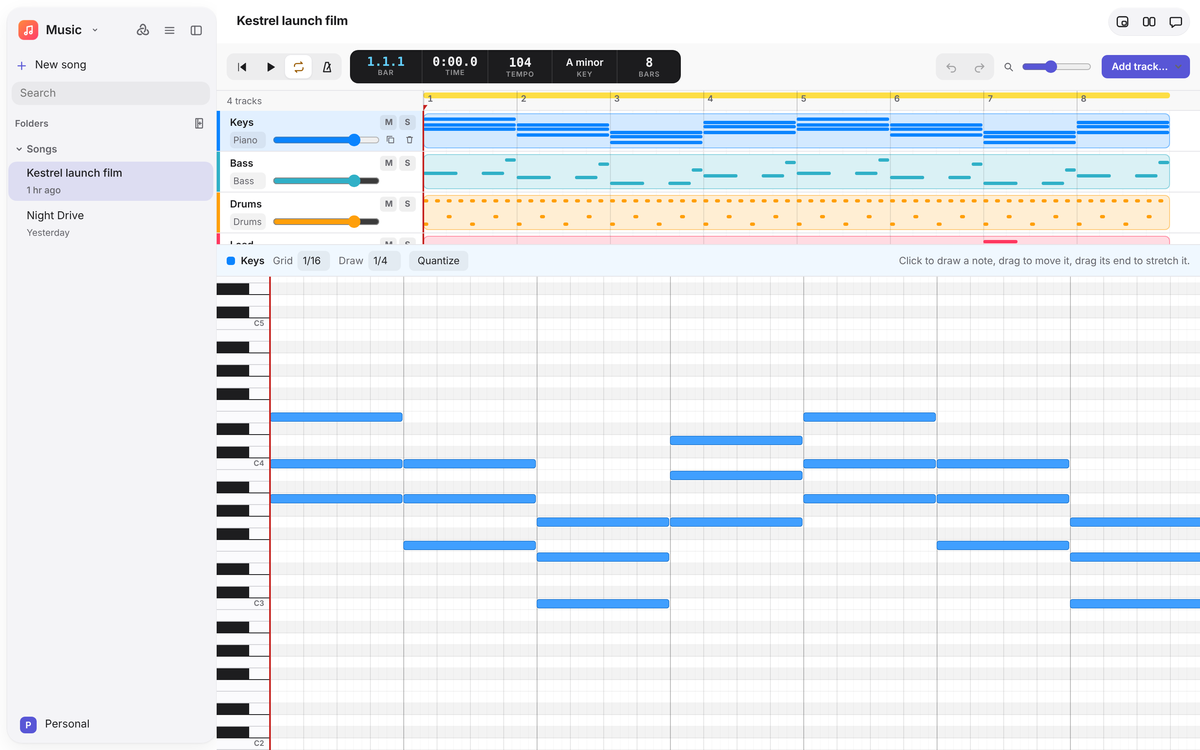
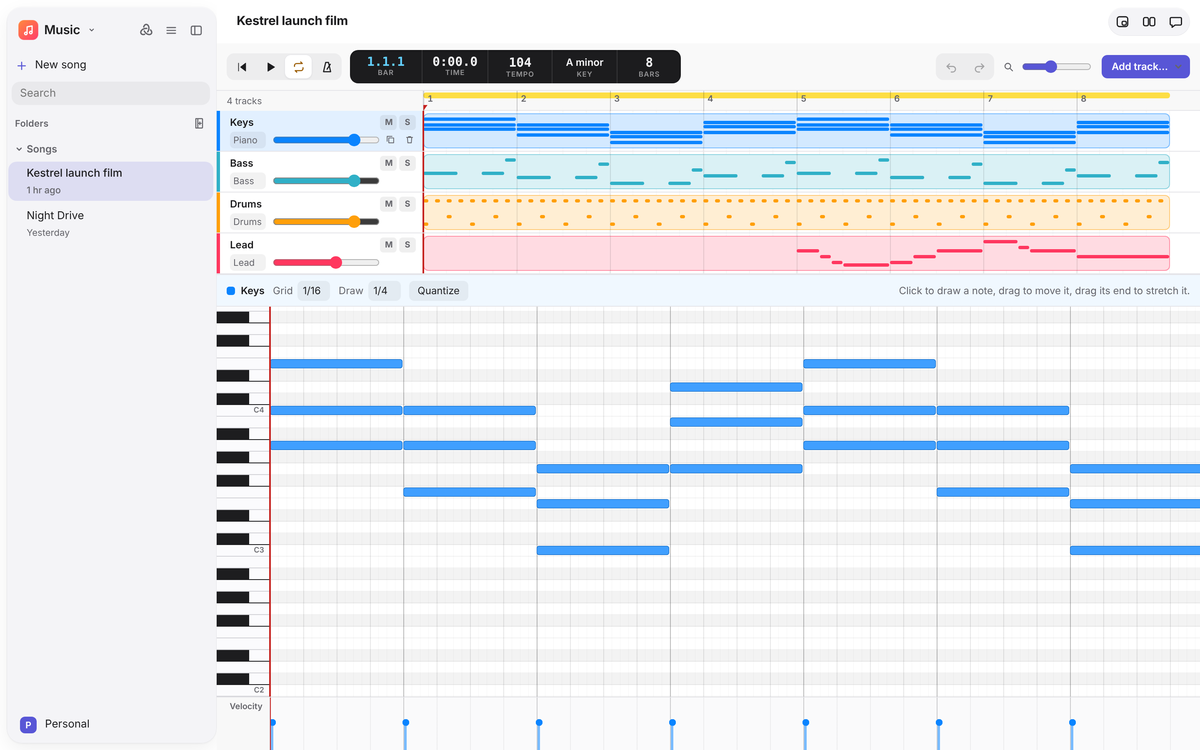
Music: track list fits its tracks, taller drum rows, velocity lane (#50)
* Music: the track list fits its tracks, taller drum rows, and a velocity lane

- The track list is as tall as its tracks (it was squeezed by the roll, hiding the last track), with a divider to drag or
  move with Up/Down, and Home to fit it again.
- Drum rows grow to fill the editor (26 to 40px) with each drum named in full.
- A velocity lane under the roll: a bar per note, dragged up or down; picked notes move together (nudgeVelocity).
- Unit tests for nudgeVelocity and fitTracks, an e2e for the lane, divider and drum rows; README picture and docs retaken.

Claude-Session: https://claude.ai/code/session_01VRGwo92y9AyxCvHYC61ZVd

* Music: draw a picked note's velocity bar on top, so a chord's notes can each be dragged

The new e2e dragged A3's bar in a chord, but C4's bar sat over it at the same beat and took the drag. Picked bars now
come first, and the test picks A3 before dragging, as a person would.

Claude-Session: https://claude.ai/code/session_01VRGwo92y9AyxCvHYC61ZVd

---------

diff --git a/apps/desktop/src/Studio.tsx b/apps/desktop/src/Studio.tsx
@@ -3,7 +3,7 @@ import { NotesSidebar, newItemIn, type SidebarWords } from './NotesSidebar';
 import { EmptyState } from './EmptyState';
 import { BEATS_PER_BAR, DRUMS, INSTRUMENTS, INSTRUMENT_NAMES, KEYS, changedTracks, freshTrackId, keyPitches, noteName, parseSong, writeSong, type Instrument, type Song, type SongNote, type Track } from './song-format';
 import { play, previewNote, type Player } from './studio-audio';
-import { GRIDS, addNote, duplicateNotes, isBlack, moveNotes, notesIn, pasteNotes, position, quantizeNotes, removeNotes, setVelocity, snap, stretchNotes, type Picked } from './studio-view';
+import { GRIDS, addNote, duplicateNotes, fitTracks, nudgeVelocity, isBlack, moveNotes, notesIn, pasteNotes, position, quantizeNotes, removeNotes, setVelocity, snap, stretchNotes, type Picked } from './studio-view';
 import { useFileReview } from './useFileReview';
 import type { NotesState } from './useNotes';
 import { ReviewActions, WhyThis } from './ReviewBar';
@@ -26,6 +26,13 @@ const ROW_H = 14;
 const MELODY_TOP = 84;
 const MELODY_BOTTOM = 36;
 const ZOOMS = [0.5, 0.75, 1, 1.5, 2, 3];
+/** Drums get taller rows and room for their names, since there are only a few of them. */
+const DRUM_ROW_H = 26;
+const DRUM_KEYS_W = 96;
+/** The velocity lane under the roll. */
+const VEL_H = 64;
+/** The least room left for the note editor when the track list is made taller. */
+const EDITOR_MIN = 200;
 
 const Icon = ({ d, fill }: { d: string; fill?: boolean }) => <svg viewBox="0 0 20 20" aria-hidden="true" data-fill={fill || undefined}><path d={d} /></svg>;
 const ICONS = {
@@ -83,6 +90,25 @@ export function StudioEditor({ songs, review }: { songs: NotesState; review?: { 
   // with the pointer captured by the roll it does not reach the note in every engine.
   const lastPress = useRef<{ i: number; t: number; x: number; y: number } | null>(null);
   const [box, setBox] = useState<{ b0: number; b1: number; r0: number; r1: number } | null>(null);
+  // How tall the track list is, once its divider has been dragged; until then it fits its tracks.
+  const [arrangeH, setArrangeH] = useState<number | null>(null);
+  const [scrollX, setScrollX] = useState(0);
+  // A drag on the velocity lane: which notes, and how much louder or softer so far.
+  const [velDrag, setVelDrag] = useState<{ these: Picked; y: number; by: number } | null>(null);
+  const page = useRef<HTMLElement>(null);
+  const [pageH, setPageH] = useState(840);
+  useEffect(() => {
+    const el = page.current;
+    if (!el) return;
+    // The room under the transport, which can wrap onto two lines in a narrow window.
+    const measure = () => setPageH(el.clientHeight - (el.querySelector<HTMLElement>('.studio-transport')?.offsetHeight ?? 52));
+    const ro = new ResizeObserver(measure);
+    ro.observe(el);
+    const bar = el.querySelector('.studio-transport');
+    if (bar) ro.observe(bar);
+    measure();
+    return () => ro.disconnect();
+  }, [song !== null]); // eslint-disable-line react-hooks/exhaustive-deps
   const [, setTick] = useState(0);
   const player = useRef<Player | null>(null);
   const roll = useRef<HTMLDivElement>(null);
@@ -204,6 +230,10 @@ export function StudioEditor({ songs, review }: { songs: NotesState; review?: { 
   const total = song.bars * BEATS_PER_BAR;
   const inKey = keyPitches(song.key);
   const drums = track?.instrument === 'drums';
+  // Drum rows grow to fill the editor (there are only six), up to a comfortable pad size.
+  const listFor = Math.max(96, Math.min(arrangeH ?? fitTracks(song.tracks.length), Math.max(96, pageH - EDITOR_MIN)));
+  const rowH = drums ? Math.max(DRUM_ROW_H, Math.min(40, Math.floor((pageH - listFor - 1 - 38 - VEL_H - 2) / DRUMS.length))) : ROW_H;
+  const keysW = drums ? DRUM_KEYS_W : KEYS_W;
   const rows = drums ? DRUMS.map((d) => ({ pitch: d.pitch, label: d.name, shade: false, black: false, c: true })) : Array.from({ length: MELODY_TOP - MELODY_BOTTOM + 1 }, (_, i) => MELODY_TOP - i).map((p) => ({ pitch: p, label: noteName(p), shade: !inKey.has(p % 12), black: isBlack(p), c: p % 12 === 0 }));
   const rowOf = (pitch: number) => rows.findIndex((r) => r.pitch === pitch);
   const rbw = ROLL_BEAT_W * zoom;
@@ -250,7 +280,7 @@ export function StudioEditor({ songs, review }: { songs: NotesState; review?: { 
   // ---------- The piano roll's pointer ----------
   const at = (e: { clientX: number; clientY: number }) => {
     const r = inner.current!.getBoundingClientRect();
-    return { beat: Math.max(0, Math.min(total - 1e-6, (e.clientX - r.left - KEYS_W) / rbw)), row: Math.max(0, Math.min(rows.length - 1, Math.floor((e.clientY - r.top) / ROW_H))) };
+    return { beat: Math.max(0, Math.min(total - 1e-6, (e.clientX - r.left - keysW) / rbw)), row: Math.max(0, Math.min(rows.length - 1, Math.floor((e.clientY - r.top) / rowH))) };
   };
   const onRollDown = (e: ReactPointerEvent<HTMLDivElement>) => {
     if (e.button !== 0 || !track) return;
@@ -287,7 +317,7 @@ export function StudioEditor({ songs, review }: { songs: NotesState; review?: { 
     if (!g) return;
     if (g.kind === 'move') {
       const db = Math.round((e.clientX - g.x) / rbw / grid) * grid;
-      const dr = Math.round((e.clientY - g.y) / ROW_H);
+      const dr = Math.round((e.clientY - g.y) / rowH);
       if (db !== g.db || dr !== g.dr || (!g.moved && Math.abs(e.clientX - g.x) + Math.abs(e.clientY - g.y) > 3)) setGesture({ ...g, db, dr, moved: g.moved || Math.abs(e.clientX - g.x) + Math.abs(e.clientY - g.y) > 3 });
     } else if (g.kind === 'stretch') {
       const dl = Math.round((e.clientX - g.x) / rbw / grid) * grid;
@@ -354,10 +384,43 @@ export function StudioEditor({ songs, review }: { songs: NotesState; review?: { 
   // While a note is dragged, the picked notes are drawn where they would land.
   const dragShift = gesture?.kind === 'move' && gesture.moved ? { db: gesture.db, dr: gesture.dr } : null;
   const dragStretch = gesture?.kind === 'stretch' ? gesture.dl : 0;
+  // The track list fits its tracks unless its divider was dragged, and always leaves the editor some room.
+  const room = pageH - EDITOR_MIN;
+  const listH = listFor;
+  const onDividerDown = (e: ReactPointerEvent<HTMLDivElement>) => {
+    if (e.button !== 0) return;
+    e.preventDefault();
+    e.currentTarget.setPointerCapture(e.pointerId);
+    const y = e.clientY, h = listH;
+    const el = e.currentTarget;
+    const move = (m: PointerEvent) => setArrangeH(Math.max(96, Math.min(h + m.clientY - y, Math.max(96, room))));
+    const up = () => { el.removeEventListener('pointermove', move); el.removeEventListener('pointerup', up); el.removeEventListener('pointercancel', up); };
+    el.addEventListener('pointermove', move);
+    el.addEventListener('pointerup', up);
+    el.addEventListener('pointercancel', up);
+  };
+  /** A press on a note's velocity bar: drag up for louder, down for softer; picked notes move together. */
+  const onVelDown = (e: ReactPointerEvent<HTMLElement>, i: number) => {
+    if (e.button !== 0) return;
+    e.preventDefault();
+    e.stopPropagation();
+    const these = picked.has(i) ? picked : new Set([i]);
+    if (!picked.has(i)) setPicked(e.shiftKey ? new Set([...picked, i]) : these);
+    e.currentTarget.setPointerCapture(e.pointerId);
+    setVelDrag({ these: e.shiftKey && !picked.has(i) ? new Set([...picked, i]) : these, y: e.clientY, by: 0 });
+  };
+  const onVelMove = (e: ReactPointerEvent<HTMLElement>) => { if (velDrag) setVelDrag({ ...velDrag, by: Math.round(((velDrag.y - e.clientY) / (VEL_H - 8)) * 100) / 100 }); };
+  const onVelUp = () => {
+    if (!velDrag) return;
+    if (velDrag.by !== 0) setNotes((n) => nudgeVelocity(n, velDrag.these, velDrag.by), 'velocity');
+    setVelDrag(null);
+  };
+  const shownVelocity = (j: number, v: number) => (velDrag && velDrag.these.has(j) ? Math.max(0, Math.min(1, v + velDrag.by)) : v);
+
   const velocity = pickedNotes.length ? pickedNotes.reduce((a, n) => a + n.velocity, 0) / pickedNotes.length : null;
 
   return (
-    <section className="studio-page" aria-label="Music">
+    <section className="studio-page" aria-label="Music" ref={page}>
       <div className="studio-transport" role="toolbar" aria-label="Transport">
         <div className="studio-buttons">
           <button type="button" className="studio-tbtn" aria-label="Go to start" title="Go to start (Return)" onClick={() => seek(0)}><Icon d={ICONS.start} fill /></button>
@@ -390,7 +453,7 @@ export function StudioEditor({ songs, review }: { songs: NotesState; review?: { 
           </select>
         </label>
       </div>
-      <div className="studio-arrange" data-empty={song.tracks.length === 0 || undefined} style={{ ['--head' as string]: `${HEAD_W}px` }}>
+      <div className="studio-arrange" data-empty={song.tracks.length === 0 || undefined} style={{ ['--head' as string]: `${HEAD_W}px`, height: listH }}>
         <div className="studio-ruler-row">
           <div className="studio-ruler-head">{song.tracks.length === 1 ? '1 track' : `${song.tracks.length} tracks`}</div>
           <div
@@ -446,6 +509,19 @@ export function StudioEditor({ songs, review }: { songs: NotesState; review?: { 
           <ReviewActions onKeep={keep} onDiscard={discard} />
         </div>
       )}
+      <div
+        className="studio-divider"
+        role="separator"
+        aria-orientation="horizontal"
+        aria-label="Resize tracks and notes"
+        aria-valuemin={96}
+        aria-valuemax={Math.max(96, room)}
+        aria-valuenow={Math.round(listH)}
+        tabIndex={0}
+        title="Drag to show more tracks or more notes"
+        onPointerDown={onDividerDown}
+        onKeyDown={(e) => { if (e.key === 'ArrowUp' || e.key === 'ArrowDown') { e.preventDefault(); setArrangeH(Math.max(96, Math.min(listH + (e.key === 'ArrowUp' ? -24 : 24), Math.max(96, room)))); } else if (e.key === 'Home') { e.preventDefault(); setArrangeH(null); } }}
+      />
       {track && (
         <div className="studio-editor" data-instrument={track.instrument}>
           <div className="studio-roll-bar" role="toolbar" aria-label="Notes">
@@ -462,18 +538,18 @@ export function StudioEditor({ songs, review }: { songs: NotesState; review?: { 
               </>
             ) : <span className="studio-hint">Click to draw a note, drag to move it, drag its end to stretch it.</span>}
           </div>
-          <div className="studio-roll" ref={roll} role="grid" aria-label={`Notes of ${track.name}`} aria-multiselectable="true" tabIndex={0} onKeyDown={onRollKey}>
+          <div className="studio-roll" ref={roll} role="grid" aria-label={`Notes of ${track.name}`} aria-multiselectable="true" tabIndex={0} onKeyDown={onRollKey} onScroll={(e) => setScrollX(e.currentTarget.scrollLeft)}>
             <div
               className="studio-roll-inner"
               ref={inner}
-              style={{ width: KEYS_W + total * rbw, height: rows.length * ROW_H }}
+              style={{ width: keysW + total * rbw, height: rows.length * rowH, ['--row' as string]: `${rowH}px`, ['--keys' as string]: `${keysW}px` }}
               onPointerDown={onRollDown}
               onPointerMove={onRollMove}
               onPointerUp={onRollUp}
               onPointerCancel={() => { setGesture(null); setBox(null); }}
             >
               {rows.map((r, i) => (
-                <div key={r.pitch} className="studio-row" role="row" data-shade={r.shade || undefined} data-black={r.black || undefined} style={{ top: i * ROW_H, height: ROW_H }}>
+                <div key={r.pitch} className="studio-row" role="row" data-shade={r.shade || undefined} data-black={r.black || undefined} style={{ top: i * rowH, height: rowH }}>
                   <span className="studio-key" role="rowheader" data-black={r.black || undefined} data-c={r.c || undefined} data-drum={drums || undefined} onPointerDown={(e) => { e.stopPropagation(); previewNote(track.instrument, r.pitch); }}>{r.label}</span>
                   <div
                     className="studio-row-cells"
@@ -496,7 +572,7 @@ export function StudioEditor({ songs, review }: { songs: NotesState; review?: { 
                           role="button"
                           aria-pressed={isPicked}
                           aria-label={`${r.label} at beat ${n.start + 1}, ${n.length} beats`}
-                          style={{ left, width, transform: isPicked && dragShift ? `translateY(${dragShift.dr * ROW_H}px)` : undefined, ['--vel' as string]: n.velocity }}
+                          style={{ left, width, transform: isPicked && dragShift ? `translateY(${dragShift.dr * rowH}px)` : undefined, ['--vel' as string]: n.velocity }}
                         >{width > 10 && <span className="studio-note-end" aria-hidden="true" />}</span>
                       );
                     })}
@@ -506,9 +582,35 @@ export function StudioEditor({ songs, review }: { songs: NotesState; review?: { 
               {box && (() => {
                 const [b0, b1] = box.b0 < box.b1 ? [box.b0, box.b1] : [box.b1, box.b0];
                 const [r0, r1] = box.r0 < box.r1 ? [box.r0, box.r1] : [box.r1, box.r0];
-                return <span className="studio-box" style={{ left: KEYS_W + b0 * rbw, width: (b1 - b0) * rbw, top: r0 * ROW_H, height: (r1 - r0 + 1) * ROW_H }} aria-hidden="true" />;
+                return <span className="studio-box" style={{ left: keysW + b0 * rbw, width: (b1 - b0) * rbw, top: r0 * rowH, height: (r1 - r0 + 1) * rowH }} aria-hidden="true" />;
               })()}
-              <span className="studio-playhead" style={{ left: KEYS_W + beat * rbw }} aria-hidden="true" />
+              <span className="studio-playhead" style={{ left: keysW + beat * rbw }} aria-hidden="true" />
+            </div>
+          </div>
+          <div className="studio-vel" role="group" aria-label={`Velocity of ${track.name}`} style={{ height: VEL_H, ['--keys' as string]: `${keysW}px` }}>
+            <span className="studio-vel-label" aria-hidden="true">Velocity</span>
+            <div className="studio-vel-inner" style={{ width: total * rbw, transform: `translateX(${-scrollX}px)`, backgroundSize: `${rbw}px 100%, ${rbw * BEATS_PER_BAR}px 100%` }} onPointerMove={onVelMove} onPointerUp={onVelUp} onPointerCancel={() => setVelDrag(null)}>
+              {notes.map((n, j) => {
+                const v = shownVelocity(j, n.velocity);
+                const label = drums ? (DRUMS.find((d) => d.pitch === n.pitch)?.name ?? noteName(n.pitch)) : noteName(n.pitch);
+                return (
+                  <span
+                    key={j}
+                    className="studio-vel-bar"
+                    role="slider"
+                    tabIndex={-1}
+                    aria-label={`Velocity of ${label} at beat ${n.start + 1}`}
+                    aria-valuemin={0}
+                    aria-valuemax={127}
+                    aria-valuenow={Math.round(v * 127)}
+                    data-picked={picked.has(j) || undefined}
+                    style={{ left: n.start * rbw, height: `${Math.max(2, v * (VEL_H - 8))}px` }}
+                    onPointerDown={(e) => onVelDown(e, j)}
+                    onKeyDown={(e) => { if (e.key !== 'ArrowUp' && e.key !== 'ArrowDown') return; e.preventDefault(); e.stopPropagation(); setNotes((ns) => nudgeVelocity(ns, picked.has(j) ? picked : new Set([j]), (e.key === 'ArrowUp' ? 1 : -1) * (e.shiftKey ? 0.1 : 1 / 127)), 'velocity'); }}
+                  />
+                );
+              })}
+              <span className="studio-playhead" style={{ left: beat * rbw }} aria-hidden="true" />
             </div>
           </div>
         </div>

diff --git a/apps/desktop/src/studio.css b/apps/desktop/src/studio.css
@@ -45,7 +45,7 @@
 .studio-page .studio-add select option { color: var(--ink); background: var(--bg); }
 
 /* ---------- Arrangement ---------- */
-.studio-page .studio-arrange { flex: 0 1 auto; max-height: 50%; min-height: 96px; overflow: auto; padding: 0; position: relative; }
+.studio-page .studio-arrange { flex: none; min-height: 96px; overflow: auto; padding: 0; position: relative; }
 .studio-ruler-row { position: sticky; top: 0; z-index: 4; display: grid; grid-template-columns: var(--head) max-content; height: 24px; background: color-mix(in srgb, var(--ink) 3%, var(--bg)); border-bottom: 0.5px solid var(--line); }
 .studio-ruler-head { position: sticky; left: 0; z-index: 1; display: flex; align-items: center; padding: 0 12px; background: inherit; border-right: 0.5px solid var(--line); font-size: 11px; color: var(--muted); }
 .studio-ruler { position: relative; height: 24px; cursor: pointer; outline: none; }
@@ -87,7 +87,13 @@
 .studio-page .studio-review { margin: 6px var(--sp-3); }
 
 /* ---------- Piano roll ---------- */
-.studio-editor { flex: 1 1 auto; min-height: 180px; display: flex; flex-direction: column; border-top: 0.5px solid var(--line); }
+.studio-editor { flex: 1 1 0; min-height: 0; display: flex; flex-direction: column; }
+/* The divider between the tracks and the notes: a hairline with a wider grab area, as in Logic's split. */
+.studio-divider { flex: none; position: relative; height: 1px; background: var(--line); cursor: row-resize; z-index: 5; touch-action: none; outline: none; }
+.studio-divider::before { content: ""; position: absolute; left: 0; right: 0; top: -4px; bottom: -4px; }
+.studio-divider::after { content: ""; position: absolute; left: 50%; top: -2px; width: 36px; height: 5px; margin-left: -18px; border-radius: 3px; background: color-mix(in srgb, var(--ink) 18%, transparent); opacity: 0; transition: opacity var(--dur-fast) var(--ease); }
+.studio-divider:hover::after, .studio-divider:focus-visible::after { opacity: 1; }
+.studio-divider:focus-visible { background: var(--accent); }
 .studio-roll-bar { flex: none; display: flex; align-items: center; gap: 10px; height: 38px; padding: 0 var(--sp-3); border-bottom: 0.5px solid var(--line); background: color-mix(in srgb, var(--tc) 6%, var(--bg)); font-size: var(--fs-sm); }
 .studio-roll-title { display: inline-flex; align-items: center; gap: 7px; font-weight: 600; white-space: nowrap; }
 .studio-field { display: inline-flex; align-items: center; gap: 6px; color: var(--muted); white-space: nowrap; }
@@ -99,7 +105,7 @@
 .studio-picked { font-weight: 600; white-space: nowrap; }
 .studio-hint { color: var(--muted); white-space: nowrap; overflow: hidden; text-overflow: ellipsis; }
 
-.studio-page .studio-roll { flex: 1 1 auto; min-height: 0; overflow: auto; border-top: 0; outline: none; background: var(--bg); }
+.studio-page .studio-roll { flex: 0 1 auto; min-height: 0; overflow: auto; border-top: 0; outline: none; background: var(--bg); }
 .studio-page .studio-roll-inner { position: relative; touch-action: none; user-select: none; }
 .studio-page .studio-row { position: absolute; left: 0; right: 0; display: flex; }
 .studio-page .studio-row[data-shade] .studio-row-cells { background-color: color-mix(in srgb, var(--ink) 3.5%, transparent); }
@@ -112,11 +118,11 @@
     linear-gradient(90deg, color-mix(in srgb, var(--ink) 22%, transparent) 1px, transparent 1px);
 }
 /* The keyboard: white keys with black ones short and dark, C named on each octave. */
-.studio-key { position: sticky; left: 0; z-index: 2; flex: none; width: 64px; height: 100%; padding-right: 6px; box-sizing: border-box; text-align: right; font: 600 9px/14px var(--font); color: transparent; background: #fbfbfd; border-bottom: 0.5px solid #d2d2d7; border-right: 0.5px solid var(--line); cursor: pointer; }
+.studio-key { position: sticky; left: 0; z-index: 2; flex: none; width: var(--keys, 64px); height: 100%; padding-right: 6px; box-sizing: border-box; text-align: right; font: 600 9px/var(--row, 14px) var(--font); color: transparent; background: #fbfbfd; border-bottom: 0.5px solid #d2d2d7; border-right: 0.5px solid var(--line); cursor: pointer; }
 .studio-key[data-c] { color: #6e6e73; }
 .studio-key[data-black] { background: linear-gradient(90deg, #1d1d1f 0 62%, #fbfbfd 62%); border-bottom-color: #1d1d1f; }
 .studio-key:active { background: color-mix(in srgb, var(--tc) 30%, #fbfbfd); }
-.studio-key[data-drum] { padding: 0 8px; text-align: left; font: 500 10.5px/14px var(--font); color: var(--ink); background: color-mix(in srgb, var(--ink) 3%, var(--bg)); border-bottom-color: var(--line); }
+.studio-key[data-drum] { padding: 0 10px; text-align: left; white-space: nowrap; overflow: hidden; text-overflow: ellipsis; font: 500 12px/var(--row, 26px) var(--font); color: var(--ink); background: color-mix(in srgb, var(--ink) 3%, var(--bg)); border-bottom-color: var(--line); }
 .studio-page .studio-note { position: absolute; top: 1px; bottom: 1px; border-radius: 3px; background: color-mix(in srgb, var(--tc) calc(45% + var(--vel, 0.8) * 55%), var(--bg)); box-shadow: inset 0 0 0 0.5px color-mix(in srgb, var(--tc) 70%, #000); cursor: grab; }
 /* The end of a note, to drag to stretch it. */
 .studio-page .studio-note-end { position: absolute; top: 0; right: 0; bottom: 0; width: 7px; cursor: ew-resize; }
@@ -133,6 +139,17 @@
 :root[data-theme="dark"] .studio-key[data-c] { color: #aeaeb2; }
 :root[data-theme="dark"] .studio-key[data-black] { background: linear-gradient(90deg, #0b0b0c 0 62%, #3a3a3c 62%); }
 :root[data-theme="dark"] .studio-key[data-drum] { background: color-mix(in srgb, var(--ink) 4%, var(--bg)); color: var(--ink); }
+
+/* The velocity lane: one bar per note, taller for louder, under the roll and scrolled with it. */
+.studio-page .studio-vel { flex: none; position: relative; overflow: hidden; border-top: 0.5px solid var(--line); background: color-mix(in srgb, var(--ink) 2%, var(--bg)); }
+.studio-vel-label { position: absolute; left: 0; top: 0; bottom: 0; z-index: 2; width: var(--keys, 64px); box-sizing: border-box; padding: 6px 8px 0 0; text-align: right; font: 600 10px/1 var(--font); color: var(--muted); background: color-mix(in srgb, var(--ink) 3%, var(--bg)); border-right: 0.5px solid var(--line); }
+.studio-vel-inner { position: absolute; top: 0; bottom: 0; left: var(--keys, 64px); background-image: linear-gradient(90deg, color-mix(in srgb, var(--ink) 6%, transparent) 1px, transparent 1px), linear-gradient(90deg, color-mix(in srgb, var(--ink) 16%, transparent) 1px, transparent 1px); }
+.studio-page .studio-vel-bar { position: absolute; bottom: 0; width: 3px; margin-left: 1px; border-radius: 2px 2px 0 0; background: color-mix(in srgb, var(--tc) 55%, var(--bg)); cursor: ns-resize; touch-action: none; outline: none; }
+/* A round head on each bar, like Logic's velocity stems; a wider invisible grab area around the thin line. */
+.studio-page .studio-vel-bar::before { content: ""; position: absolute; left: -5px; right: -5px; top: -6px; bottom: 0; }
+.studio-page .studio-vel-bar::after { content: ""; position: absolute; top: -3px; left: -2.5px; width: 8px; height: 8px; border-radius: 50%; background: var(--tc); }
+.studio-page .studio-vel-bar[data-picked] { z-index: 1; background: var(--tc); }
+.studio-page .studio-vel-bar[data-picked]::after { box-shadow: 0 0 0 2px var(--bg), 0 0 0 3.5px var(--tc); }
 
 /* ---------- Empty ---------- */
 .studio-empty { display: grid; justify-items: center; gap: 6px; max-width: 340px; text-align: center; color: var(--muted); font-size: var(--fs-sm); }

diff --git a/apps/desktop/e2e/studio.spec.ts b/apps/desktop/e2e/studio.spec.ts
@@ -129,3 +129,38 @@ test('a part from Mobius is a new track of notes, dashed until kept or discarded
   await expect.poll(() => saved().tracks.map((t) => t.id)).toEqual(['t1']);
   await expect(tracks().getByRole('listitem', { name: 'Bass' })).toHaveCount(0);
 });
+
+test('velocity is drawn under the roll and dragged per note; the track list fits its tracks and resizes', async () => {
+  fs.writeFileSync(file(), JSON.stringify({ ...SONG, tracks: [...SONG.tracks, BASS] }));
+  await start();
+  await resizeWindow(mobius!.app, 1440, 900);
+  await expect(tracks().getByRole('listitem', { name: 'Bass' })).toBeInViewport();
+  // Each note has a bar in the velocity lane; dragging one up makes that note louder and leaves the others alone. The
+  // chord's notes share a beat, so A3 is picked first: a picked note's bar is drawn on top.
+  await shell().getByRole('grid', { name: 'Notes of Keys' }).getByLabel('A3 at beat 1, 4 beats').click({ position: { x: 20, y: 4 } });
+  const lane = shell().getByRole('group', { name: 'Velocity of Keys' });
+  const bar = lane.getByRole('slider', { name: 'Velocity of A3 at beat 1', exact: true });
+  await expect(bar).toHaveAttribute('aria-valuenow', String(Math.round(0.7 * 127)));
+  const box = (await bar.boundingBox())!;
+  await shell().mouse.move(box.x + box.width / 2, box.y + 4);
+  await shell().mouse.down();
+  await shell().mouse.move(box.x + box.width / 2, box.y - 8, { steps: 4 });
+  await shell().mouse.up();
+  await expect.poll(() => saved().tracks[0]!.notes.find((n) => n.pitch === 57)!.velocity).toBeGreaterThan(0.7);
+  expect(saved().tracks[0]!.notes.find((n) => n.pitch === 60)!.velocity).toBe(0.7);
+  await shell().keyboard.press('Control+z');
+  await expect.poll(() => saved().tracks[0]!.notes.find((n) => n.pitch === 57)!.velocity).toBe(0.7);
+  // The divider gives the notes more room from the keyboard, and Home fits the list to its tracks again.
+  const divider = shell().getByRole('separator', { name: 'Resize tracks and notes' });
+  const fit = Number(await divider.getAttribute('aria-valuenow'));
+  await divider.focus();
+  await shell().keyboard.press('ArrowUp');
+  await expect(divider).toHaveAttribute('aria-valuenow', String(Math.max(96, fit - 24)));
+  await shell().keyboard.press('Home');
+  await expect(divider).toHaveAttribute('aria-valuenow', String(fit));
+  // Drums get rows tall enough to name each drum in full.
+  await tracks().getByRole('listitem', { name: 'Bass' }).click();
+  await shell().getByRole('combobox', { name: 'Add a track' }).selectOption('drums');
+  const head = shell().getByRole('grid', { name: 'Notes of Drums' }).getByRole('rowheader', { name: 'Closed hat' });
+  expect((await head.boundingBox())!.height).toBeGreaterThanOrEqual(26);
+});

diff --git a/apps/desktop/src/studio-view.test.ts b/apps/desktop/src/studio-view.test.ts
@@ -1,5 +1,5 @@
 import { describe, expect, it } from 'vitest';
-import { addNote, duplicateNotes, moveNotes, notesIn, pasteNotes, position, quantizeNotes, removeNotes, setVelocity, snap, stretchNotes } from './studio-view';
+import { addNote, fitTracks, nudgeVelocity, duplicateNotes, moveNotes, notesIn, pasteNotes, position, quantizeNotes, removeNotes, setVelocity, snap, stretchNotes } from './studio-view';
 
 const n = (pitch: number, start: number, length = 1, velocity = 0.8) => ({ pitch, start, length, velocity });
 const notes = [n(57, 0, 4), n(60, 0, 4), n(64, 4)];
@@ -44,5 +44,17 @@ describe('editing notes on the roll', () => {
   it('shows the position as bars and time', () => {
     expect(position(0, 120)).toEqual({ bars: '1.1.1', time: '0:00.0' });
     expect(position(5.5, 120)).toEqual({ bars: '2.2.3', time: '0:02.8' });
+  });
+});
+
+describe('velocity lane and track list', () => {
+  it('nudges picked notes by the same amount, keeping each between 0 and 1', () => {
+    const vs = [n(60, 0, 1, 0.5), n(62, 1, 1, 0.95), n(64, 2, 1, 0.1)];
+    expect(nudgeVelocity(vs, new Set([0, 1]), 0.1).map((x) => x.velocity)).toEqual([0.6, 1, 0.1]);
+    expect(nudgeVelocity(vs, new Set([2]), -0.5)[2]!.velocity).toBe(0);
+  });
+  it('fits the track list to its tracks', () => {
+    expect(fitTracks(4)).toBe(24 + 4 * 49);
+    expect(fitTracks(0)).toBe(24 + 49);
   });
 });

diff --git a/apps/desktop/src/studio-view.ts b/apps/desktop/src/studio-view.ts
@@ -87,6 +87,14 @@ export function setVelocity(notes: readonly SongNote[], picked: Picked, velocity
   return notes.map((n, i) => (picked.has(i) ? { ...n, velocity: v } : n));
 }
 
+/** The picked notes made louder or softer by `by` (−1 to 1), each kept between 0 and 1, so a group keeps its accents. */
+export function nudgeVelocity(notes: readonly SongNote[], picked: Picked, by: number): SongNote[] {
+  return notes.map((n, i) => (picked.has(i) ? { ...n, velocity: round(Math.max(0, Math.min(1, n.velocity + by))) } : n));
+}
+
+/** How tall the track list is when it fits its tracks: the ruler plus one lane each, at least room for one. */
+export const fitTracks = (tracks: number, ruler = 24, lane = 49) => ruler + Math.max(1, tracks) * lane;
+
 /** The notes inside a box drawn on the roll, from beat `b0` to `b1` and pitch `p0` to `p1` (either way round). */
 export function notesIn(notes: readonly SongNote[], b0: number, b1: number, p0: number, p1: number): Set<number> {
   const [s, e] = b0 < b1 ? [b0, b1] : [b1, b0];

diff --git a/docs/apps/create.md b/docs/apps/create.md
@@ -61,7 +61,11 @@ A small studio for writing songs as notes.
 
 - **Tracks** laid out by bar, each with an instrument (Piano, Bass, Pad, Lead or Drums), volume, mute and solo.
 - **The piano roll** for the chosen track: draw, move and stretch notes, select with a box, snap to the grid. Drums
-  get a lane per drum.
+  get a tall row per drum, named in full.
+- **Velocity lane** under the roll: one bar per note. Drag a bar up to make the note louder, down to make it softer;
+  picked notes move together.
+- **The divider** between the tracks and the roll: the track list fits its tracks, and dragging the divider (or
+  Up and Down on it) gives more room to either side. Home fits it to the tracks again.
 - **Transport** to play, with the song's tempo and key.
 - Mobius writes songs as notes, never audio. A song is a JSON file it can read and write like a score.
 
